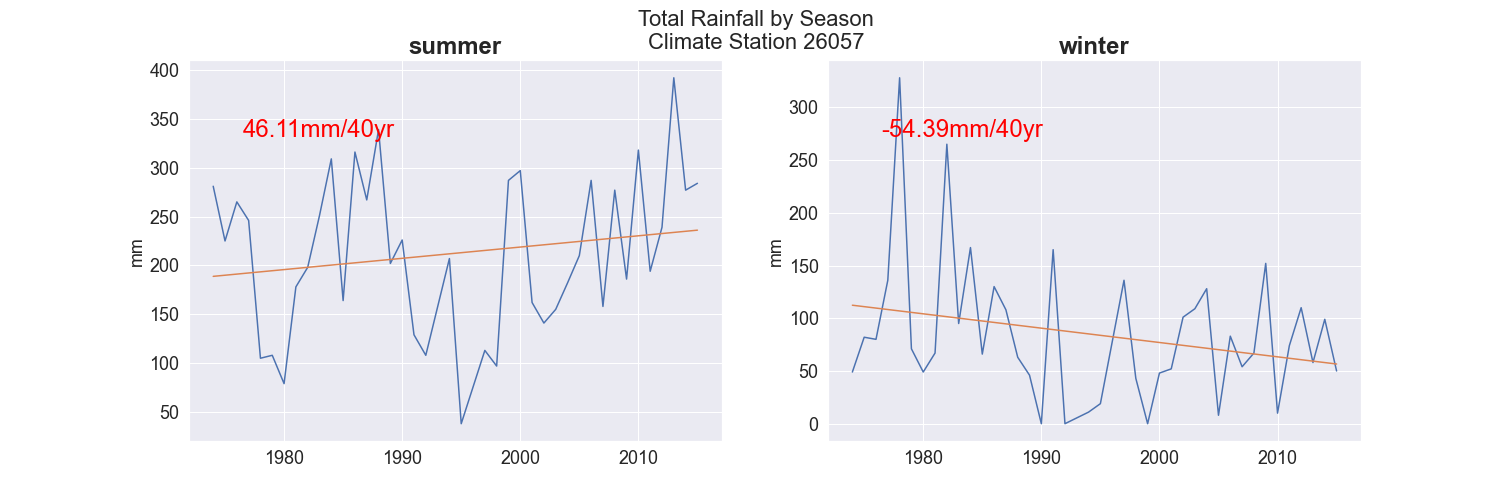
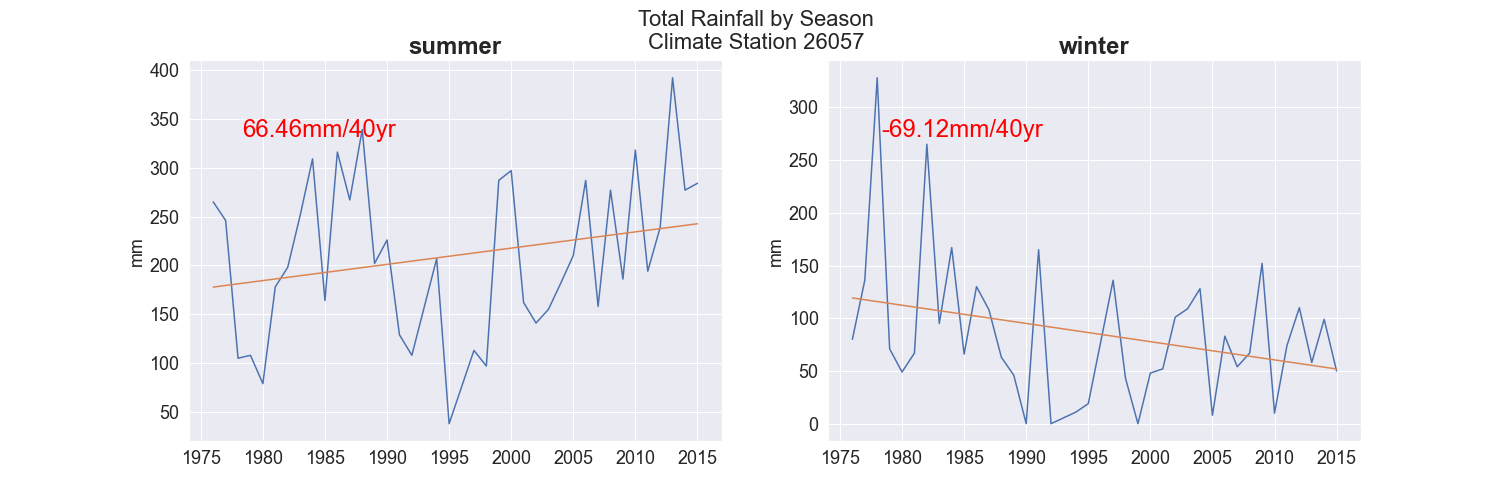
Corrected coef and precipSum graphs

diff --git a/taap_plot_seasonalSum.py b/taap_plot_seasonalSum.py
@@ -114,7 +114,7 @@ with open(csvFile, 'w') as file:       # set mode to write w/ truncation
 start, end = 1976, 2016 # set time frame to last forty years
 
 for key in keylist_mx:
-       df = dictSeasonPrecip[key]       # rename working database for ease of reading      
+       dfKey = dictSeasonPrecip[key]       # rename working database for ease of reading      
 
        for var in varsSum_mx:
 
@@ -128,8 +128,13 @@ for key in keylist_mx:
                      ax = fig.add_subplot(1,2, i+1)    # creates a 12-plot fig (3r x 4c)
 
                      # select data to plot
-                     x = df[df.season == seasons[i]].tail(40).index.year
-                     y = df[df.season == seasons[i]].precipSum.tail(40)
+                     df = dfKey[dfKey.season == seasons[i]]
+
+                     end = df.index.year[-1]
+                     start = end - 39
+
+                     x = df.loc[str(start):str(end)].index.year
+                     y = df.loc[str(start):str(end)].precipSum.tail(40)
 
                      ax.plot(x,y)  # this plots the col values
 
@@ -137,12 +142,13 @@ for key in keylist_mx:
                      ax.set_title(seasons[i], fontsize=24, fontweight='bold')
 
                      # Make the linear regression
-                     database = df[(df.season == seasons[i])][[]].tail(40)
+                     database = df.loc[str(start):str(end)][[]].tail(40)
                      database = database.dropna()
 
                      # Reshape data for use in LinReg builder
                      x_data = x.values.reshape(x.shape[0],1)
                      y_data = y.values.reshape(y.shape[0],1)
+                     timespan = x_data[-1,0] - x_data[0,0] + 1
 
                      reg = linear_model.LinearRegression().fit(x_data, y_data)
                      coef = reg.coef_
@@ -151,8 +157,8 @@ for key in keylist_mx:
 
                      ax.plot(x_data,y_estimate) # this plots the linear regression
                      
-                     # Save the observed trends to a csv to be plotted on monte carlo distribution
-                     saveLine = '\n'+str(key)+','+seasons[i]+','+str(40*coef[0,0])
+                     # # Save the observed trends to a csv to be plotted on monte carlo distribution
+                     saveLine = '\n'+str(key)+','+seasons[i]+','+str(timespan*coef[0,0])
 
                      saveFile = open(csvFile, 'a')   # reopen csv file
                      saveFile.write(saveLine)        # append the saved row
@@ -162,7 +168,7 @@ for key in keylist_mx:
                      ax.set_ylabel('mm', fontsize=18)
                      ax.tick_params(axis='both', which='major', labelsize=18)
                      ax.text(.1, .8,
-                            str(round((end-start)*coef[0,0],2))+'mm/40yr',
+                            str(round(timespan*coef[0,0],2))+'mm/'+str(timespan)+'yr',
                             transform=ax.transAxes,
                             fontsize=24,
                             color='red')
